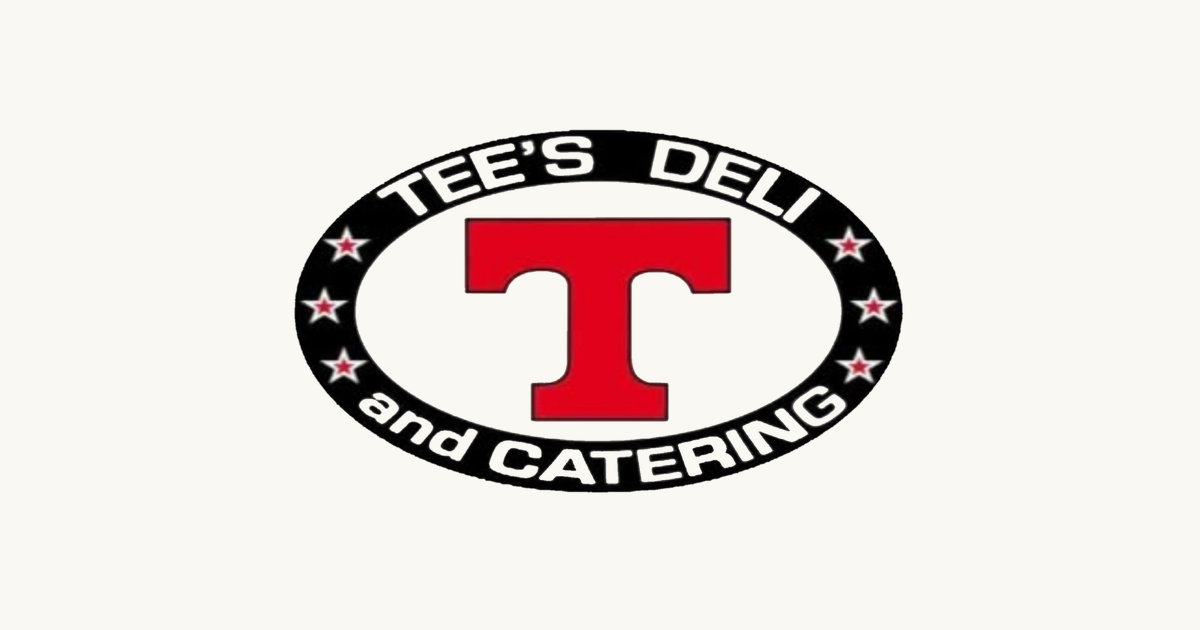
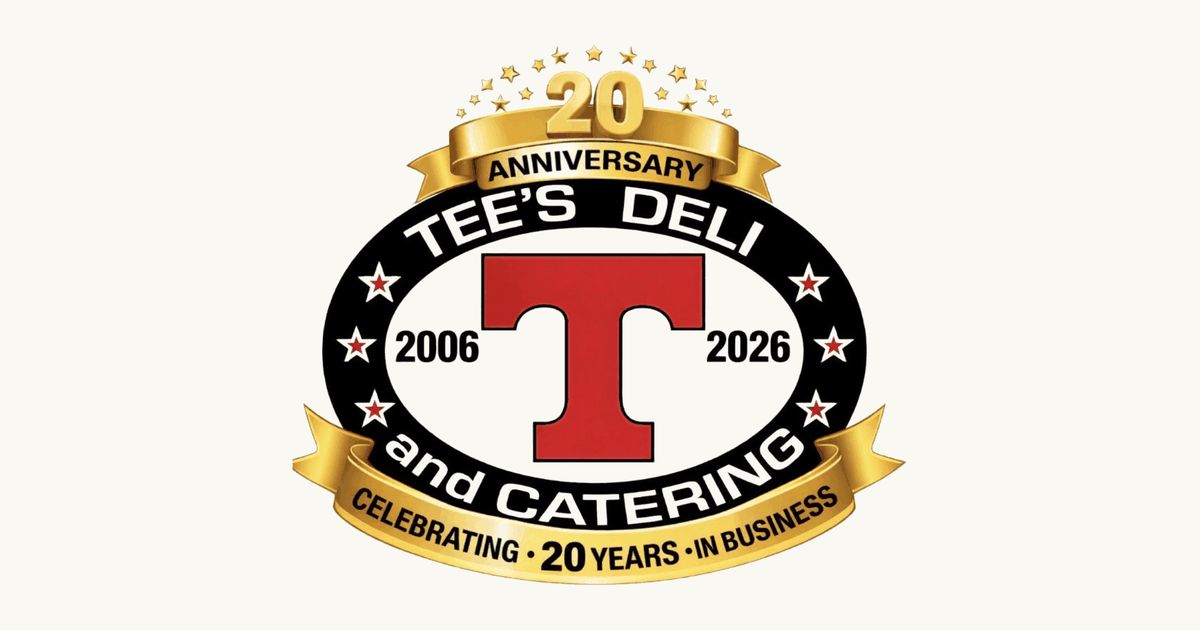
Put the 20th-anniversary mark on the link previews
The OG image was still the plain oval logo, so every shared link showed the
pre-anniversary branding while the site itself has carried the 2006–2026 mark
since 66535bf.

Regenerated from tees-deli-logo-20th-full.webp rather than the 1740x1592 PNG
that was dropped in — same artwork, and the existing master is 2048x1874, so
it downsamples cleaner.

Composited to 1200x630 rather than used square. Platforms crop to that ratio,
and a square source loses the "20" and the CELEBRATING ribbon off the top and
bottom — which is the entire difference between this mark and the old one.
Centred on paper with even padding, as the previous OG image was; transparency
would render black in most chat clients.

109KB, down from 138KB, via a dithered 256-colour palette. The gold gradients
survive it at preview size, and it stays clear of the ~300KB above which some
chat clients quietly drop the preview altogether.

og:image:alt now describes the anniversary rather than just naming the
business, matching the header logo.

Facebook, LinkedIn and iMessage cache these for weeks — after deploy, re-scrape
in the Sharing Debugger and Post Inspector or existing links keep the old one.

Changed region(s): [[0.2467, 0.0603, 0.7708, 0.9349]]

diff --git a/src/app/layout.tsx b/src/app/layout.tsx
@@ -44,15 +44,16 @@ export const metadata: Metadata = {
       "Full-service catering and a fresh deli serving the Greater Worcester area.",
     url: SITE_URL,
     // og-image.png, not the logo file itself: the logo is a transparent WebP,
-    // and transparency renders black in most chat clients. This is the logo
-    // composited on the paper background at the 1200x630 that platforms crop to.
+    // and transparency renders black in most chat clients. This is the
+    // 20th-anniversary mark composited on the paper background at the 1200x630
+    // that platforms crop to, generated from tees-deli-logo-20th-full.webp.
     // Absolute URLs so scrapers, which don't resolve relative paths, can fetch it.
     images: [
       {
         url: `${SITE_URL}/og-image.png`,
         width: 1200,
         height: 630,
-        alt: business.name,
+        alt: `${business.name} — celebrating 20 years in business, 2006–2026`,
       },
     ],
   },
